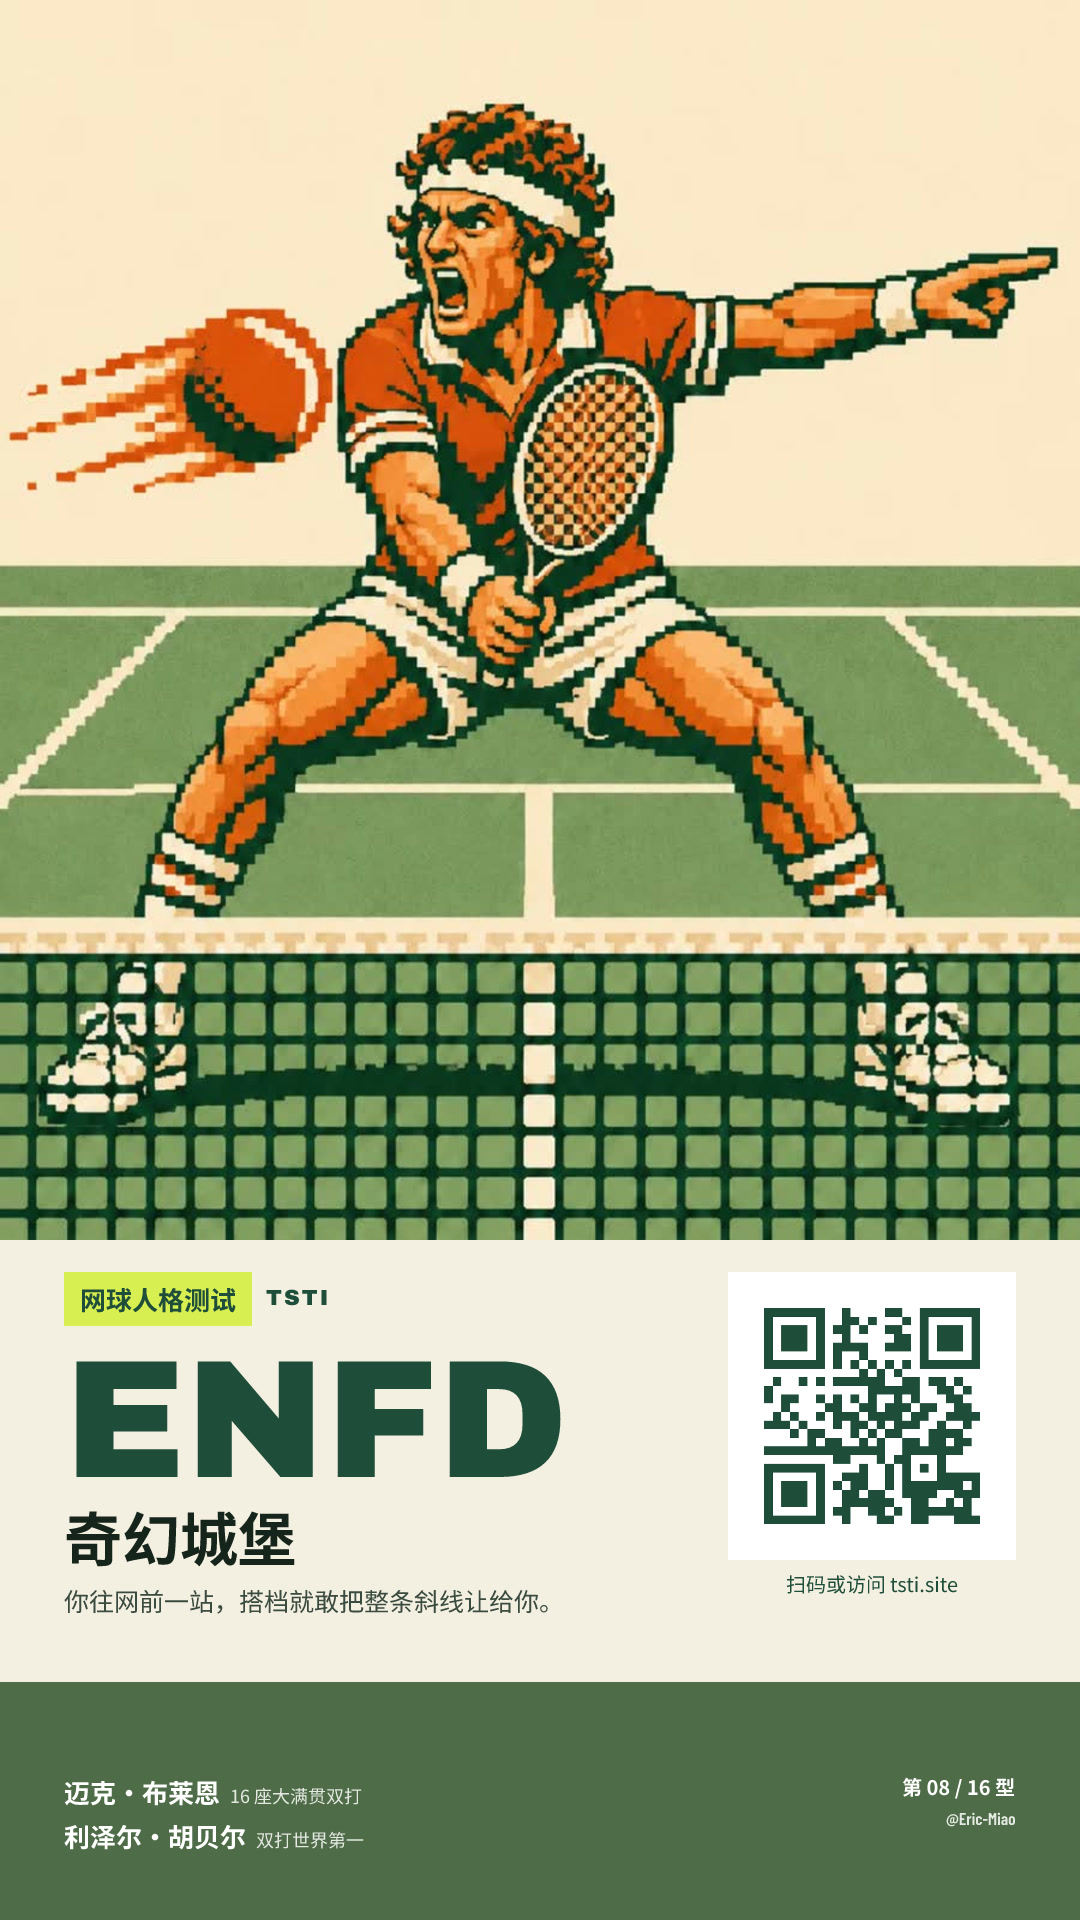
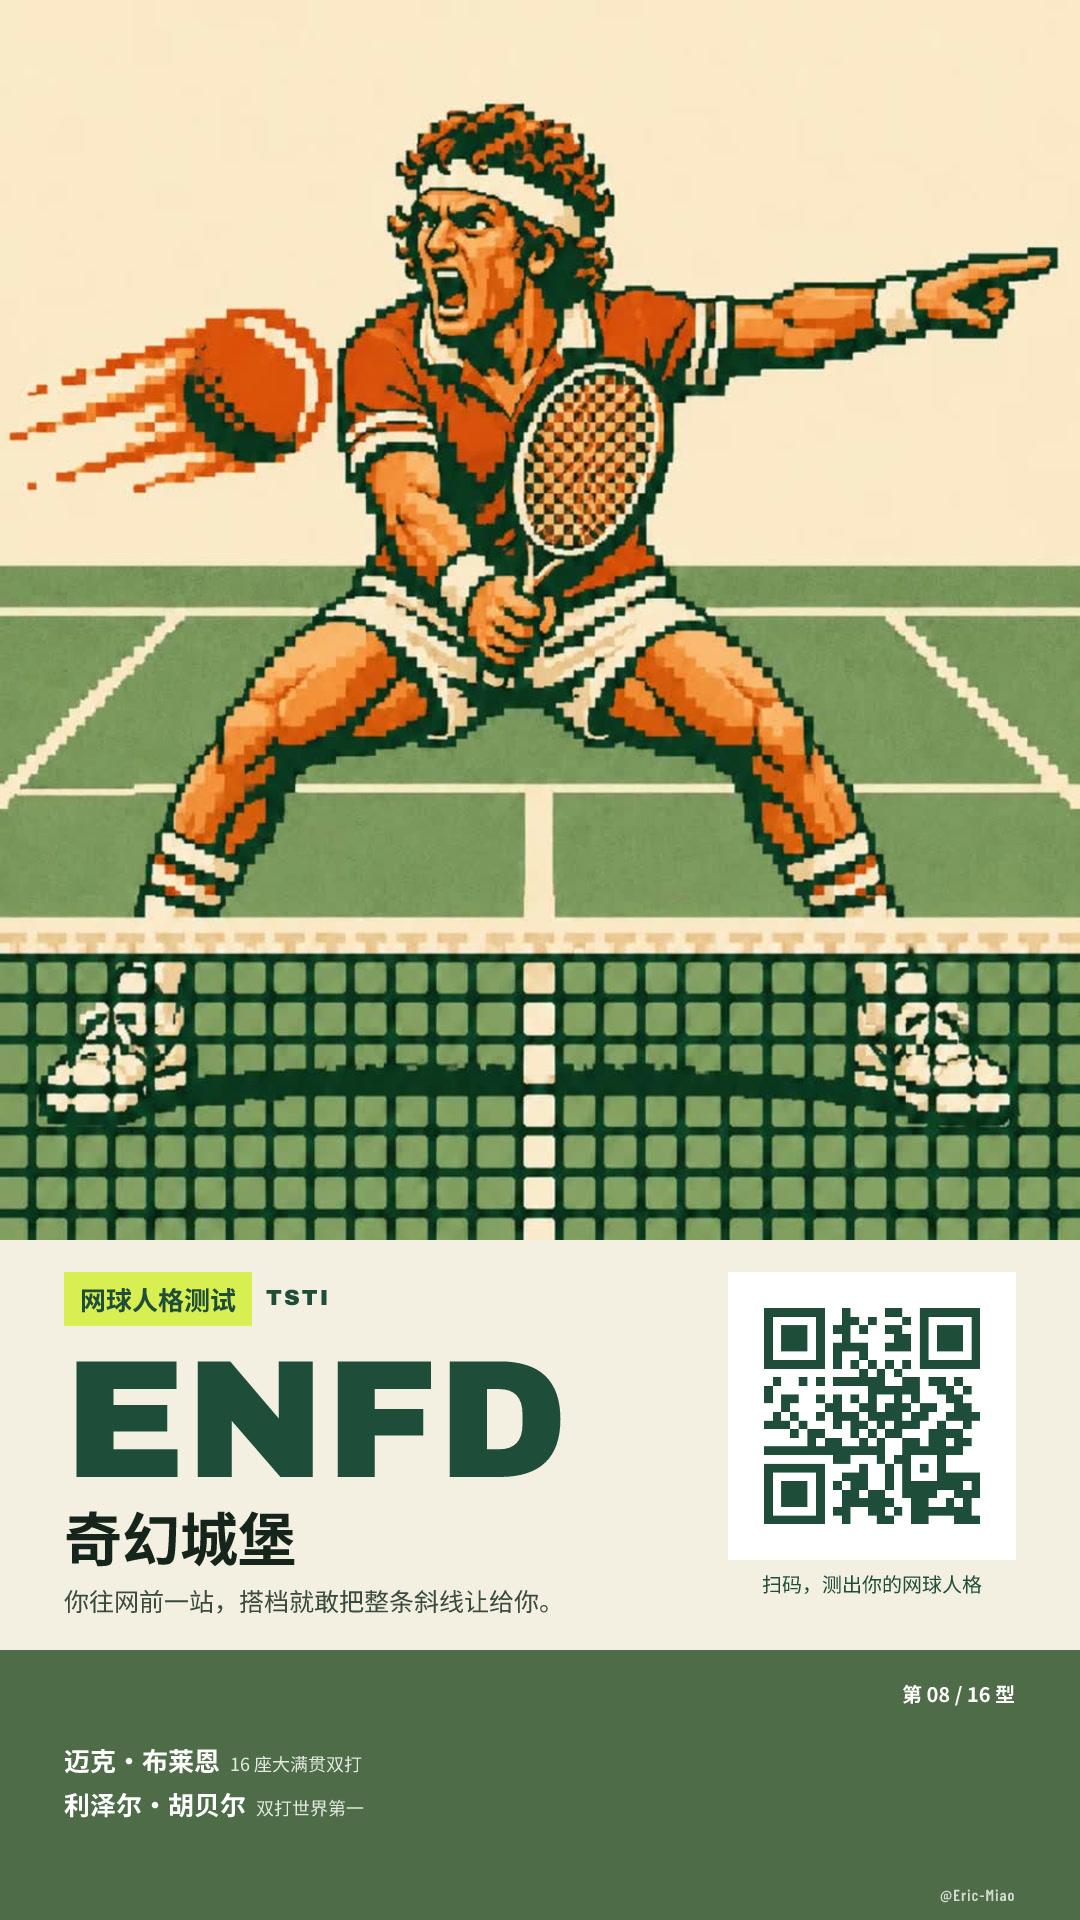
copy: 二维码文案改为「扫码，测出你的网球人格」；署名移到卡片最右下角

Changed region(s): [[0.0, 0.8125, 1.0, 0.9688], [0.0611, 0.9062, 0.3361, 0.9688]]

diff --git a/shared/CardTemplate.tsx b/shared/CardTemplate.tsx
@@ -71,10 +71,9 @@ export function CardTemplate({ type, index, artSrc, qrSrc, handle }: CardProps) 
           height: CREAM_H,
           flexShrink: 0,
           display: 'flex',
-          paddingTop: 32,
         }}
       >
-        <div style={{ display: 'flex', width: 952, marginLeft: 64 }}>
+        <div style={{ display: 'flex', width: 952, marginLeft: 64, marginTop: 32 }}>
         <div style={{ display: 'flex', flexDirection: 'column', width: 600 }}>
           <div style={{ display: 'flex', alignItems: 'center' }}>
             <div
@@ -158,7 +157,7 @@ export function CardTemplate({ type, index, artSrc, qrSrc, handle }: CardProps) 
               textAlign: 'center',
             }}
           >
-            扫码或访问 tsti.site
+            扫码，测出你的网球人格
           </div>
         </div>
         </div>
@@ -173,11 +172,11 @@ export function CardTemplate({ type, index, artSrc, qrSrc, handle }: CardProps) 
           background: bg,
           color: '#FFFFFF',
           display: 'flex',
-          alignItems: 'center',
+          alignItems: 'stretch',
         }}
       >
         <div style={{ display: 'flex', width: 952, marginLeft: 64 }}>
-        <div style={{ display: 'flex', flexDirection: 'column', width: 700 }}>
+        <div style={{ display: 'flex', flexDirection: 'column', width: 700, justifyContent: 'center' }}>
           {type.players.slice(0, 2).map((p) => (
             <div key={p.name} style={{ display: 'flex', alignItems: 'baseline', marginBottom: 6 }}>
               <div style={{ fontSize: 26, fontWeight: 700 }}>{p.name}</div>
@@ -193,14 +192,28 @@ export function CardTemplate({ type, index, artSrc, qrSrc, handle }: CardProps) 
             display: 'flex',
             flexDirection: 'column',
             alignItems: 'flex-end',
+            justifyContent: 'space-between',
+            height: FOOTER_H,
             marginLeft: 'auto',
           }}
         >
-          <div style={{ fontSize: 20, fontWeight: 700 }}>第 {String(index).padStart(2, '0')} / 16 型</div>
-          <div style={{ fontFamily: 'Barlow', fontSize: 17, marginTop: 6, color: 'rgba(255,255,255,0.85)' }}>
+          <div style={{ display: 'flex', fontSize: 20, fontWeight: 700, marginTop: 30 }}>
+            第 {String(index).padStart(2, '0')} / 16 型
+          </div>
+          <div
+            style={{
+              display: 'flex',
+              fontFamily: 'Barlow',
+              fontSize: 16,
+              letterSpacing: 1,
+              color: 'rgba(255,255,255,0.75)',
+              marginBottom: 16,
+            }}
+          >
             {handle}
           </div>
         </div>
+
         </div>
       </div>
     </div>
